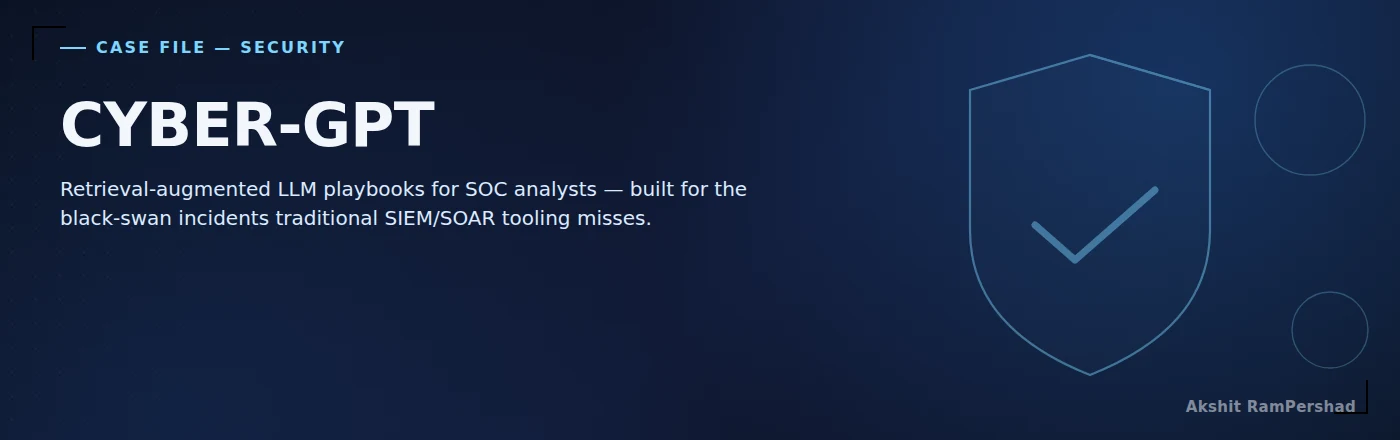
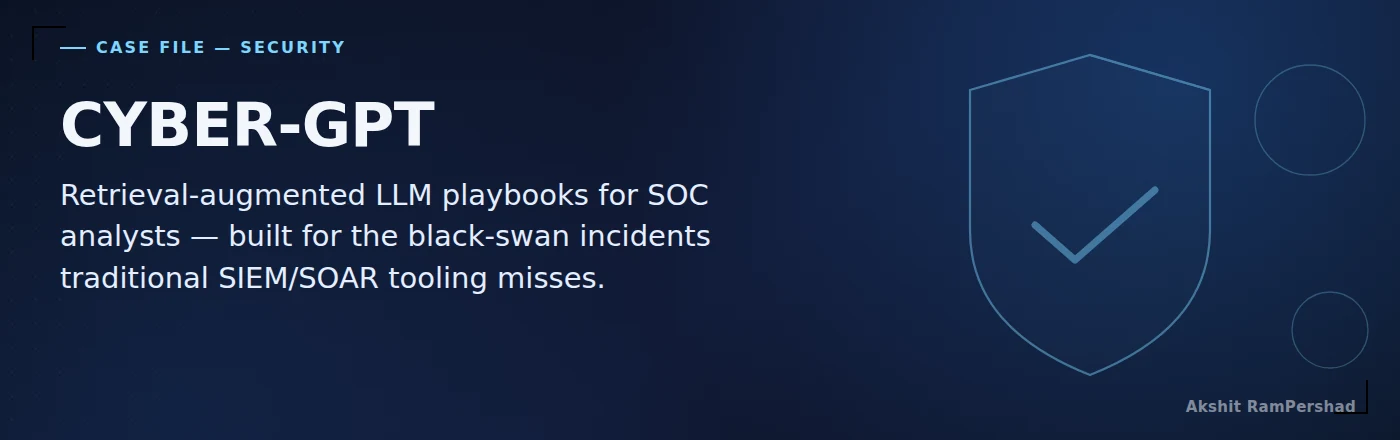
Enlarge cover subtext, rename Watson's card title
Cover taglines bump from 20px to 29px in the source canvas for
clearly better legibility. Watson's card title now reads "Watson:
Multilingual NLI & Fact-Checking" instead of dropping the name
entirely, since "Watson" is short enough to carry as a prefix.

Changed region(s): [[0.0307, 0.4136, 0.5529, 0.5614], [0.0307, 0.5909, 0.43, 0.6795]]

diff --git a/index.html b/index.html
@@ -1852,7 +1852,7 @@
           <div class="repo-card-body">
             <div class="repo-status-row"><span class="repo-badge repo-badge-live"><span class="dot"></span>Live Demo</span></div>
             <p class="repo-eyebrow">NLP &middot; Multilingual</p>
-            <h3><a href="https://github.com/AkshitRampershad/Contradictory-My-Dear-Watson" target="_blank" rel="noopener noreferrer">Multilingual NLI &amp; Fact-Checking</a></h3>
+            <h3><a href="https://github.com/AkshitRampershad/Contradictory-My-Dear-Watson" target="_blank" rel="noopener noreferrer">Watson: Multilingual NLI &amp; Fact-Checking</a></h3>
             <div class="repo-stats">
               <div class="repo-stat"><span class="v">90.06%</span><span class="k">Test Accuracy</span></div>
               <div class="repo-stat"><span class="v">6th/64</span><span class="k">Kaggle Teams</span></div>
